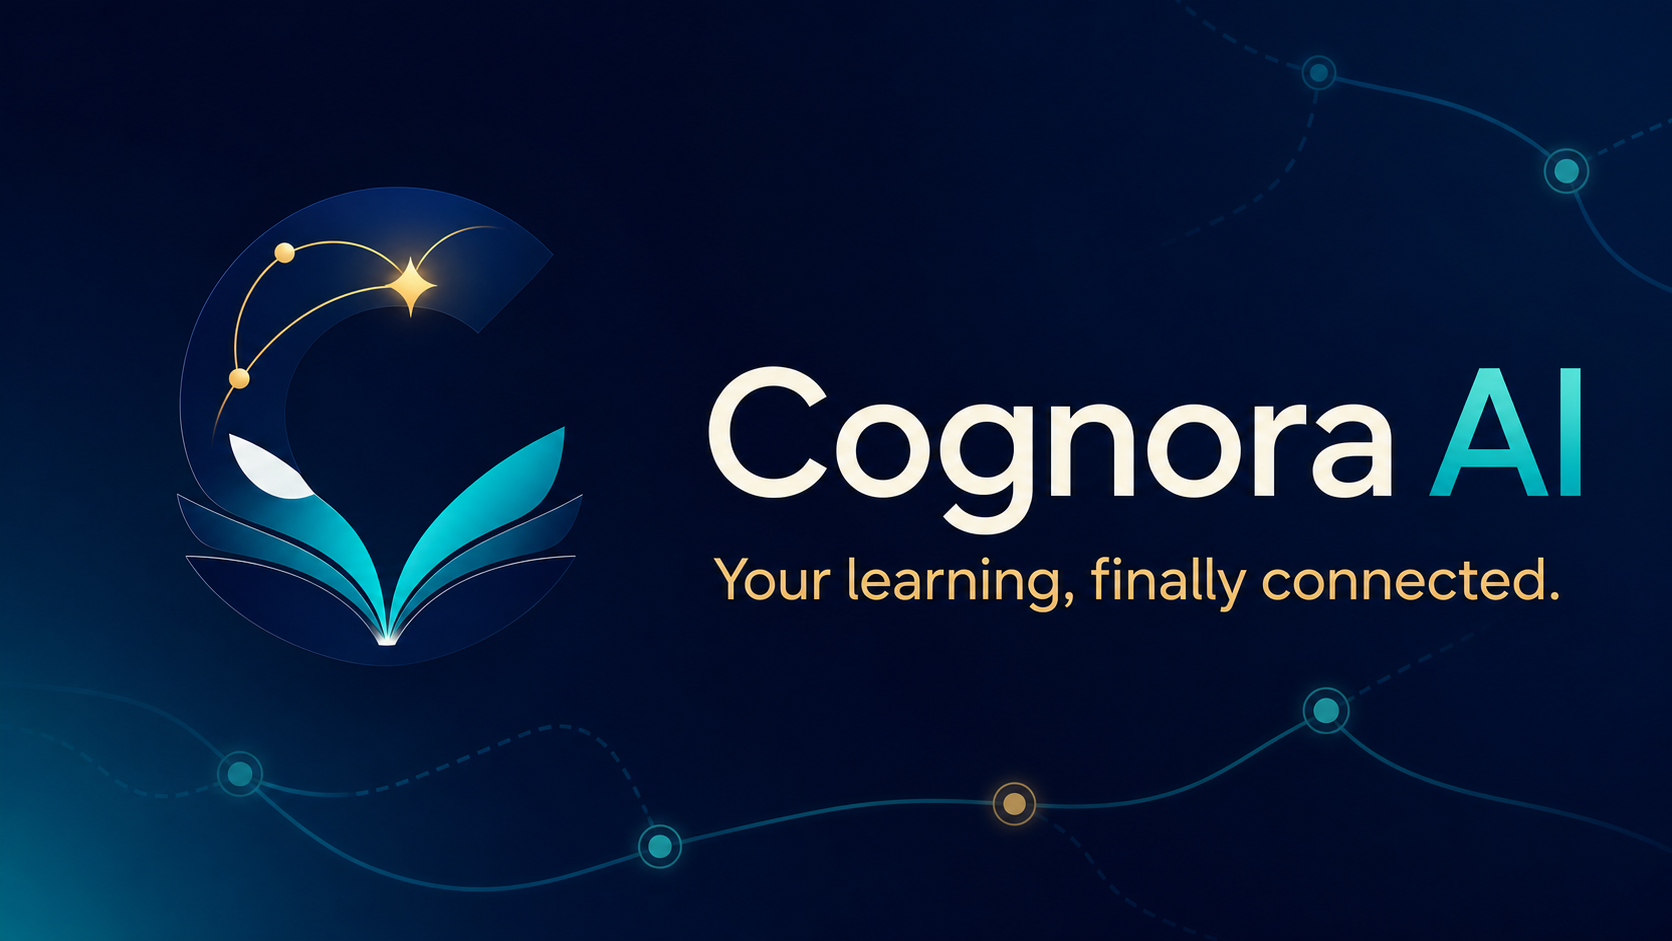
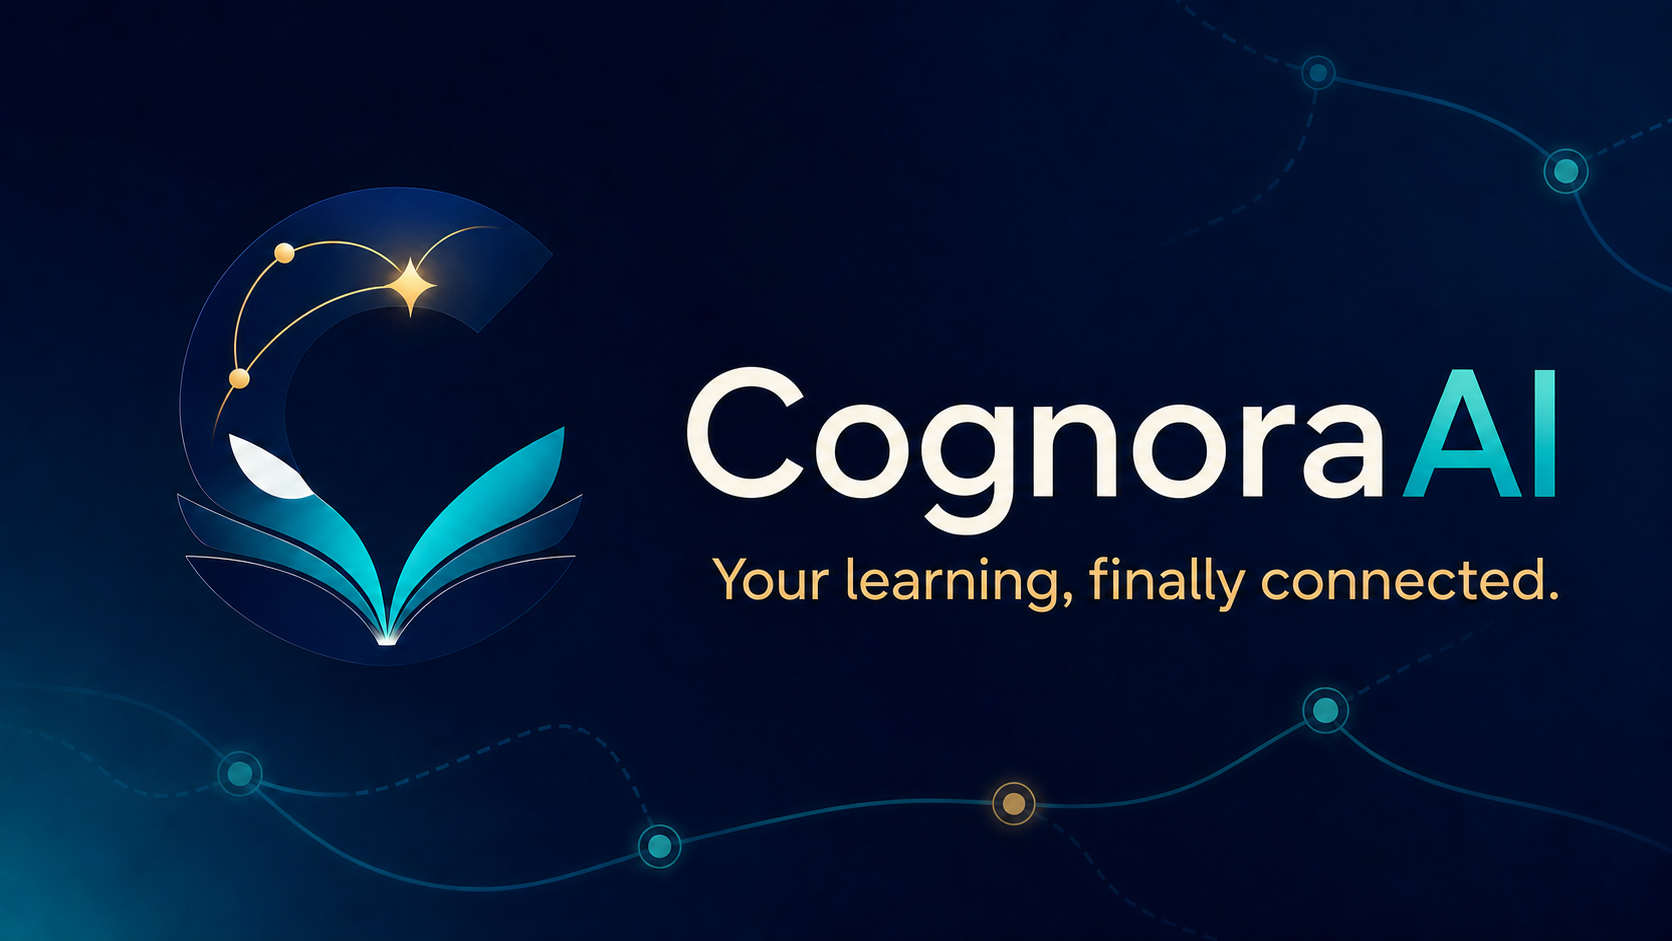
fix: unify machine-readable CognoraAI branding

diff --git a/app/page.tsx b/app/page.tsx
@@ -63,9 +63,32 @@ const connectedFeatures = [
   { icon: ShieldCheck, title: "Private collaboration", copy: "Share course spaces without sharing personal attempts." },
 ];
 
+const publicApplicationSchema = {
+  "@context": "https://schema.org",
+  "@type": "SoftwareApplication",
+  name: "CognoraAI",
+  url: "https://cognora-ai.tech/",
+  applicationCategory: "EducationalApplication",
+  operatingSystem: "Web",
+  description:
+    "CognoraAI is an AI-powered learning platform for students that provides study planning, lecture support, learning roadmaps, assignment feedback, and knowledge-gap detection.",
+  featureList: [
+    "Study Planner",
+    "Lecture Companion",
+    "Learning Roadmap Generator",
+    "Assignment Feedback Tool",
+    "Knowledge Gap Detector",
+    "Optional Google Calendar study-session synchronization",
+  ],
+};
+
 export default function MarketingHome() {
   return (
     <main className="marketing-page" id="top">
+      <script
+        type="application/ld+json"
+        dangerouslySetInnerHTML={{ __html: JSON.stringify(publicApplicationSchema) }}
+      />
       <a className="skip-link" href="#main-content">Skip to main content</a>
 
       <header className="marketing-header">